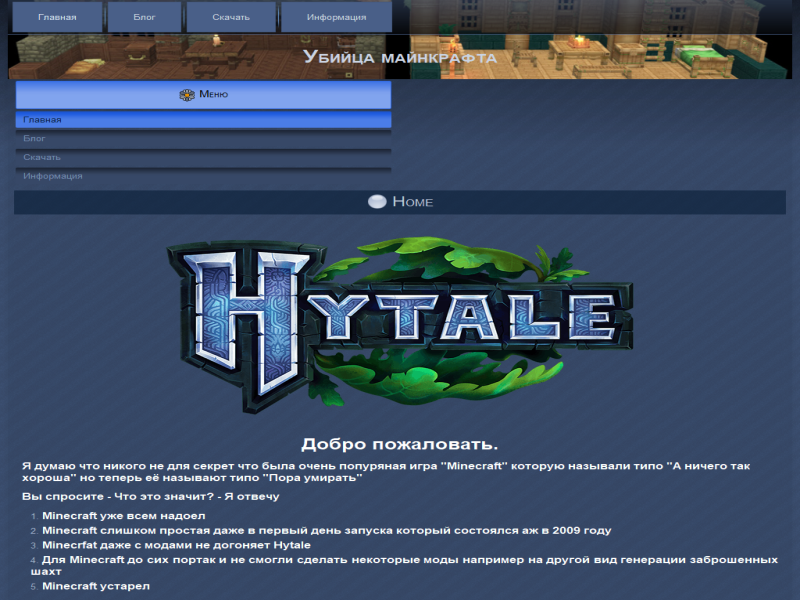
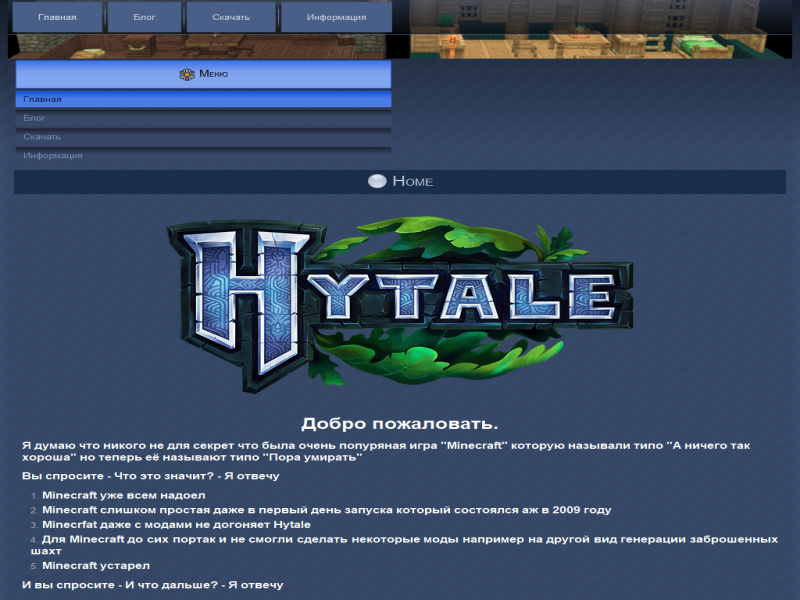
Обновление сайта

diff --git a/index.html b/index.html
@@ -31,9 +31,6 @@
 
 
     <div class="art-shapes">
-<h1 class="art-headline" data-left="6.06%">
-    <a href="#">Убийца майнкрафта</a>
-</h1>
 
 
             </div>
@@ -82,7 +79,7 @@
         <p style="text-align: left;"><span style="color: rgb(255, 255, 255); font-size: 16px; font-weight: bold;">Hytale - Это игра в жанре "Песочница" и "Ролевая игра" конкурент игры "Minecraft"</span></p>
         <p style="text-align: center;"><span style="font-weight: bold; color: rgb(0, 224, 71); font-size: 48px;">Наконец-то</span><span style="color: rgb(255, 255, 255); font-size: 16px; font-weight: bold;"><br></span></p>
         <p style="text-align: left;"><span style="color: rgb(255, 255, 255); font-size: 16px; font-weight: bold;">В игре в отличии от "Minecraft" есть всё и даже больше</span></p>
-        <p style="text-align: left;"></p>
+        <p style="text-align: left;">         </p>
         <ul>
         <li><span style="color: rgb(255, 255, 255); font-size: 16px; font-weight: bold;">Нормальная анимация</span><br></li>
         <li><span style="color: rgb(255, 255, 255); font-size: 16px; font-weight: bold;">Искуственный интелекст</span><br></li>
@@ -91,8 +88,12 @@
         <li><span style="color: rgb(255, 255, 255); font-size: 16px; font-weight: bold;">Сервер</span><br></li>
         <li><span style="color: rgb(255, 255, 255); font-size: 16px; font-weight: bold;">Мощный встроенный</span><span style="color: rgb(255, 255, 255); font-size: 16px; font-weight: bold;">&nbsp;моддинг</span></li>
         </ul>
-        <p style="text-align: left;"><span style="font-size: 16px; font-weight: bold; color: #E2341D;">Страница дополняется...</span></p>
-        <p></p>
+        <p><span style="color: rgb(255, 255, 255); font-size: 16px; font-weight: bold;">Сразу скажу игра разрабатывается компанией "<span style="color: #00E047;">Hypixel Studios</span>" у которого сейчас сервер для игры "Minecraft" и который находится в первом топе среди других серверов</span></p>
+        <p><span style="color: rgb(255, 255, 255); font-size: 16px; font-weight: bold;">И да кстати игра имеет ещё две вещи от которых вы ошалете</span></p>
+        <p><span style="color: rgb(255, 255, 255); font-size: 16px; font-weight: bold;">Игра разрабатывается уже с середины 2015 года тоесть 5 лет</span></p>
+        <p><span style="color: rgb(255, 255, 255); font-size: 16px; font-weight: bold;">Этой компании&nbsp;"<span style="color: rgb(0, 224, 71);">Hypixel Studios</span>" помогли из другой компании а именно "<span style="color: #0CDF48;">Riot Games</span>" деньгами а именно "<span style="color: #00E047;">3600000 доларов</span>"</span></p>
+        <p><span style="color: rgb(255, 255, 255); font-size: 16px; font-weight: bold;">Итак. Если вы попали сюда случайно то ничего страшного. А если вы хотели попасть именно сюда то добро пожаловать. На нашем сайте будет много всего интерестного по этой игре</span></p>
+        <p>         </p>
         <p>     </p>
     </div>
     </div>
@@ -102,13 +103,14 @@
 <div class="art-content-layout layout-item-1">
     <div class="art-content-layout-row">
     <div class="art-layout-cell layout-item-3" style="width: 33%" >
-        <h3 style="border-bottom: 1px solid #BDBDBD; padding-bottom: 5px"><span style="font-size: 24px; font-weight: bold; color: #FFFFFF;">Особенности игры</span></h3>
+        <h3 style="border-bottom: 1px solid #BDBDBD; padding-bottom: 5px"><span style="color: rgb(255, 255, 255); font-size: 24px; font-weight: bold;">Особенности игры</span><br></h3>
+        <p style="text-align: center;"><span style="color: rgb(255, 255, 255); font-size: 72px; font-weight: bold;">Скоро</span><span style="color: rgb(255, 255, 255); font-size: 24px; font-weight: bold;"><br></span></p>
     </div><div class="art-layout-cell layout-item-3" style="width: 34%" >
-        <h3 style="padding-bottom: 5px; border-bottom-width: 1px; border-bottom-style: solid; border-bottom-color: rgb(189, 189, 189);"><span style="font-size: 24px; font-weight: bold; color: rgb(255, 255, 255);">Скачать</span></h3>
-        <p><br></p>
+        <h3 style="padding-bottom: 5px; border-bottom-width: 1px; border-bottom-style: solid; border-bottom-color: rgb(189, 189, 189);"><span style="color: rgb(255, 255, 255); font-size: 24px; font-weight: bold;">Скачать</span><br></h3>
+        <p style="text-align: center;"><span style="color: rgb(255, 255, 255); font-weight: bold; font-size: 72px;">Скоро</span><span style="color: rgb(255, 255, 255); font-size: 24px; font-weight: bold;"><br></span></p>
     </div><div class="art-layout-cell layout-item-3" style="width: 33%" >
         <h3 style="padding-bottom: 5px; border-bottom-width: 1px; border-bottom-style: solid; border-bottom-color: rgb(189, 189, 189);"><span style="font-size: 24px; font-weight: bold; color: rgb(255, 255, 255);">Информация о сайте</span></h3>
-        <p style="text-align: center;"><a href="info.html"><img width="215" height="215" alt="" src="images/unnamed.jpg"></a><br></p>
+        <p style="text-align: center;"><a href="info.html"><img width="215" height="215" alt="" src="images/unnamed.jpg" class=""></a><br></p>
     </div>
     </div>
 </div>

diff --git a/style.css b/style.css
@@ -411,41 +411,6 @@ li p, .art-postcontent li p, .art-blockcontent li p
    margin-right: 0 !important;
 }
 
-.art-headline
-{
-  display: inline-block;
-  position: absolute;
-  min-width: 50px;
-  top: 131px;
-  left: 6.06%;
-  line-height: 100%;
-  margin-left: -15px !important;
-  -webkit-transform: rotate(0deg);
-  -moz-transform: rotate(0deg);
-  -o-transform: rotate(0deg);
-  -ms-transform: rotate(0deg);
-  transform: rotate(0deg);
-  z-index: 99;
-}
-
-.art-headline, 
-.art-headline a, 
-.art-headline a:link, 
-.art-headline a:visited, 
-.art-headline a:hover
-{
-font-size: 30px;
-font-family: 'Droid Sans', Arial, 'Arial Unicode MS', Helvetica, Sans-Serif;
-font-weight: bold;
-font-style: normal;
-text-decoration: none;
-font-variant: small-caps;
-text-align: left;
-  padding: 0;
-  margin: 0;
-  color: #CAD3E2 !important;
-  white-space: nowrap;
-}
 
 
 
@@ -471,7 +436,7 @@ text-align: left;
    margin:0 auto;
    height: 260px;
    background-image: url('images/object1377362040.png'), url('images/header.jpg');
-   background-position: 722px 66px, 0 0;
+   background-position: 360px 70px, 0 0;
    background-repeat: no-repeat;
    position: relative;
    z-index: auto !important;

diff --git a/script.js b/script.js
@@ -1140,7 +1140,7 @@ jQuery(function ($) {
     }
     var header = $(".art-header");
     var bgimages = "url('images/object1377362040.png'), ".split(",");
-    var bgpositions = "722px 66px, ".split(",");
+    var bgpositions = "360px 70px, ".split(",");
     for (var i = 0; i < bgimages.length; i++) {
         var bgimage = $.trim(bgimages[i]);
         if (bgimage === "")

diff --git a/down.html b/down.html
@@ -24,9 +24,6 @@
 
 
     <div class="art-shapes">
-<h1 class="art-headline" data-left="6.06%">
-    <a href="#">Убийца майнкрафта</a>
-</h1>
 
 
             </div>

diff --git a/info.html b/info.html
@@ -24,9 +24,6 @@
 
 
     <div class="art-shapes">
-<h1 class="art-headline" data-left="6.06%">
-    <a href="#">Убийца майнкрафта</a>
-</h1>
 
 
             </div>

diff --git a/news.html b/news.html
@@ -24,9 +24,6 @@
 
 
     <div class="art-shapes">
-<h1 class="art-headline" data-left="6.06%">
-    <a href="#">Убийца майнкрафта</a>
-</h1>
 
 
             </div>
